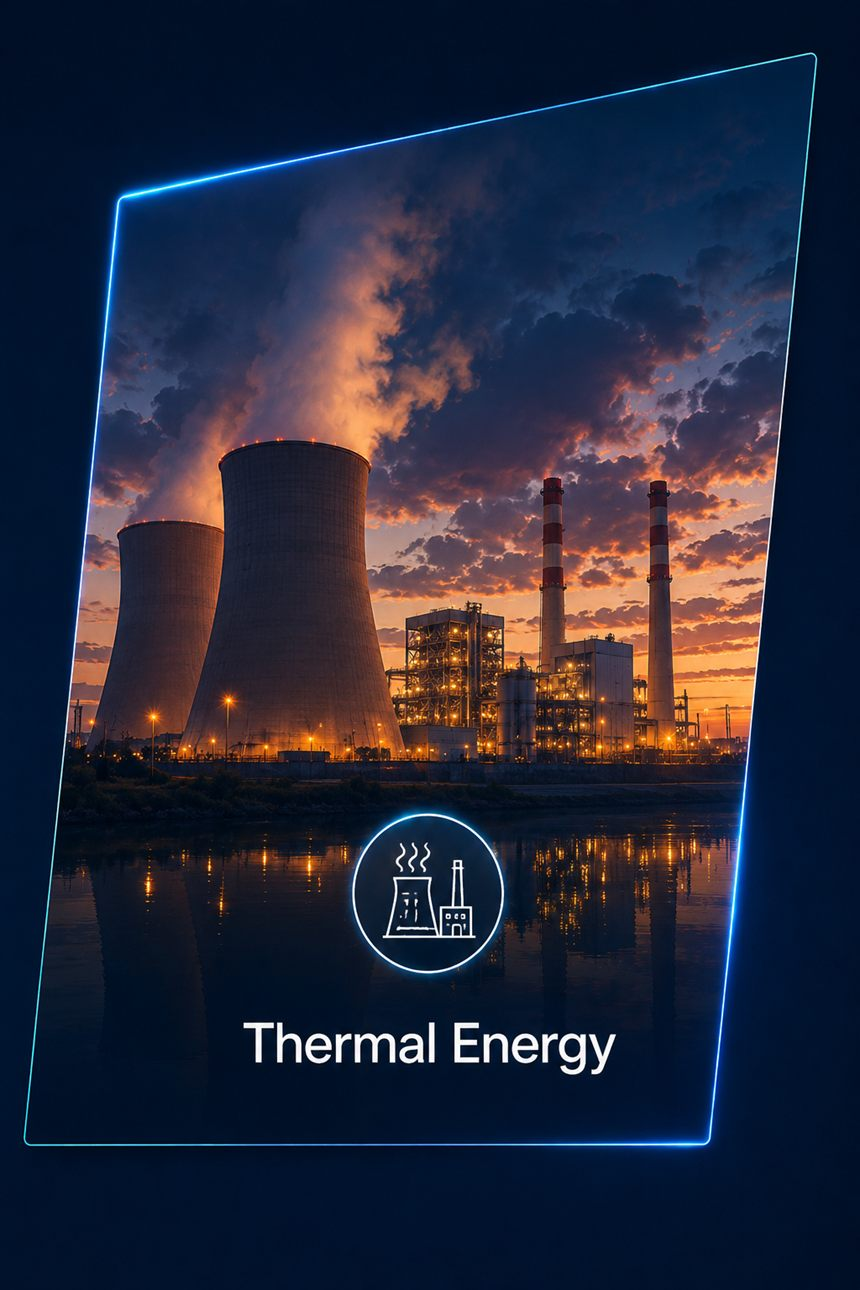
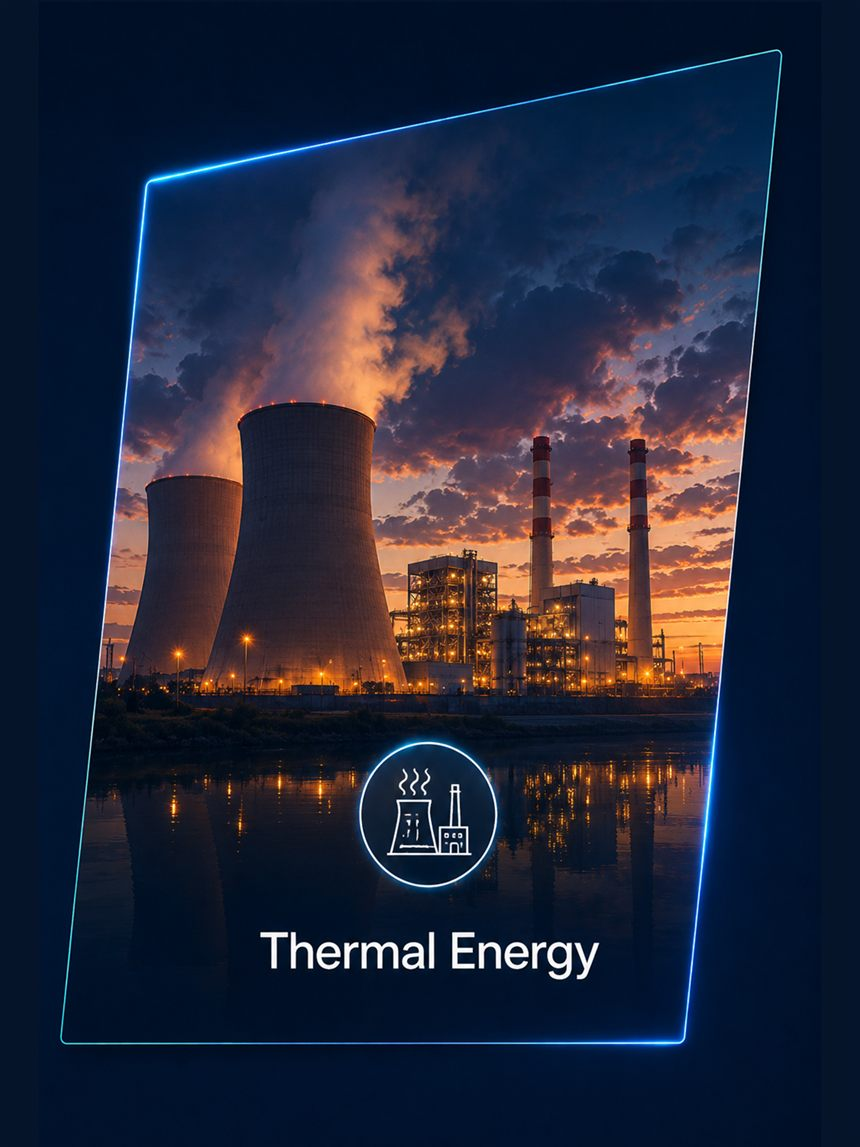
feat(home): use deck wording verbatim and fix layout defects
Align the intro page with the ProSIM company deck and correct three
layout issues found while reviewing it.

Content, taken verbatim from the deck rather than paraphrased:
- About now leads with "Engineering your Designs" and carries both
  approved paragraphs word for word.
- Industry names match the labels baked into their own card artwork:
  "Nuclear Power" -> "Nuclear Energy", "Petrochemical Engineering" ->
  "Petrochemicals & Process Industries". Case-study `industry` values
  track the rename so the project filter pills keep matching.
- Section labels use the deck's own wording ("Industry We Serve",
  "Clients"), and the projects stat keeps the deck's "Project Delivered".

Layout:
- About's side panel no longer stretches to match the left column. It
  carried `h-full` plus `justify-between`, so it grew to the row height
  and pushed its footer to the bottom, leaving ~720px of dead space once
  the banner was added. The column keeps the row height (which is what
  gives `sticky` room to travel) while the card sizes to its content and
  pins below the header.
- Switch `overflow-x: hidden` to `clip` on <body> and <main>. Both stop
  sideways scroll, but `hidden` makes the element a scroll container,
  which silently disables `position: sticky` for everything inside.
  Verified no horizontal scroll at 390/768/1440px.
- Normalise the thermal industry card. It came out of the deck at
  1024x1536 while the other five are 1086x1448, so `object-cover`
[…]

Changed region(s): [[0.0302, 0.0305, 0.9674, 0.9154], [0.6047, 0.061, 0.6953, 0.0915], [0.7558, 0.061, 0.786, 0.0915]]

diff --git a/src/data/prosimData.ts b/src/data/prosimData.ts
@@ -13,7 +13,7 @@ export const HERO_DATA = {
   eyebrow: "ProSIM / Detailed Engineering & Analysis",
   headline: "Engineering through",
   headlineAccent: "Delivery Excellence",
-  subheadline: "Delivering innovative engineering solutions across energy sectors, helping customers solve their most pressing challenges through delivery excellence.",
+  subheadline: "Delivering innovative engineering solutions across energy sectors, helping customers solve their most pressing challenges through delivery excellence",
   videoCta: "Unveiling ProSIM",
   primaryCta: "Explore Industries",
   secondaryCta: "Request Engineering Consultation",
@@ -31,15 +31,14 @@ export const HERO_DATA = {
 
 export const ABOUT_DATA = {
   companyName: "ProSIM",
-  tagline: "Your Detailed Engineering Partner for Complex Projects",
-  /**
-   * Paraphrased from the company deck. The scope line is deliberate: ProSIM
-   * picks a project up at the detailed engineering stage - front-end and basic
-   * engineering are outside the remit - so the copy never implies FEED or
-   * concept-phase services.
+  /*
+   * Verbatim from the company deck (slide 2). These three strings are the
+   * client's own approved wording and are intentionally NOT paraphrased -
+   * keep them character-for-character unless the deck itself changes.
    */
-  statement: "ProSIM is a multidisciplinary engineering and design company delivering dependable solutions across the Energy, Process, Utilities and Infrastructure sectors. We work alongside EPCs, OEMs and engineering service providers, taking projects forward from detailed engineering through to rigorous analysis and validation.",
-  statementSecondary: "Our commitment is to turn approved designs into reliable, buildable engineering. Every deliverable is backed by deep technical expertise, rigorous analysis and a clear grasp of how the asset behaves in the real world.",
+  tagline: "Engineering your Designs",
+  statement: "ProSIM is a multidisciplinary engineering and design company delivering reliable solutions across the Energy, Process, Utilities, and Infrastructure sectors. We work with EPC's, OEM's and engineering service companies to support projects from engineering design through detailed engineering and analysis.",
+  statementSecondary: "ProSIM is committed to transform designs into reliable and practical engineering solutions. Every design is reinforced by deep technical expertise, rigorous analysis and clear understanding of real-world application",
   scopeNote: "ProSIM specialises exclusively in detailed engineering and analysis. We do not undertake front-end or basic engineering scopes.",
   pillars: [
     {
@@ -122,7 +121,8 @@ export const STATS_DATA: StatItem[] = [
     id: "stat-projects",
     value: 3600,
     suffix: "+",
-    label: "Projects Delivered",
+    // Deck wording, kept verbatim (it reads "Project Delivered", singular).
+    label: "Project Delivered",
     highlight: "Across 18+ Countries",
     description: "Successfully executed mission-critical engineering and simulation projects with 100% on-time delivery track record."
   },
@@ -155,7 +155,7 @@ export const STATS_DATA: StatItem[] = [
 export const INDUSTRIES_DATA: IndustryItem[] = [
   {
     id: "nuclear-power",
-    title: "Nuclear Power",
+    title: "Nuclear Energy",
     category: "Clean & Base-Load Energy",
     shortDesc: "Reactor pressure vessel integrity, seismic qualification, containment analysis, and RCC-M code design.",
     fullDesc: "ProSIM provides mission-critical structural, thermal-hydraulic, and seismic engineering for nuclear island and balance-of-plant systems. We specialize in ASME Section III (Class 1, 2, 3) and RCC-M code compliance, reactor internal dynamics, core shroud stress analysis, severe accident mitigation simulations, and life extension studies.",
@@ -212,7 +212,7 @@ export const INDUSTRIES_DATA: IndustryItem[] = [
   },
   {
     id: "petrochemical-engineering",
-    title: "Petrochemical Engineering",
+    title: "Petrochemicals & Process Industries",
     category: "Refining & Chemical Processing",
     shortDesc: "Reactors, distillation columns, heat exchangers, high-temperature piping stress, and API 579 FFS assessments.",
     fullDesc: "Specialized design-by-analysis and fitness-for-service evaluation for refinery units, hydrocrackers, FCCUs, and petrochemical complexes. We perform advanced thermo-mechanical stress, nozzle flexibility, and localized corrosion flaw assessment.",
@@ -504,7 +504,7 @@ export const PROJECTS_DATA: ProjectCaseStudy[] = [
   {
     id: "proj-1",
     title: "Seismic & Thermal Fatigue Qualification of 700 MWe Nuclear Primary Heat Transport Loop",
-    industry: "Nuclear Power",
+    industry: "Nuclear Energy",
     clientType: "Nuclear Energy Corporation",
     challenge: "Ensure structural integrity under combined Safe Shutdown Earthquake (SSE), thermal stratification, and cyclic thermal transients in accordance with RCC-M Level D requirements.",
     solution: "Developed non-linear FEA response-spectrum and transient thermal models incorporating multi-axial creep-fatigue and fluid-structure interaction (FSI).",
@@ -537,7 +537,7 @@ export const PROJECTS_DATA: ProjectCaseStudy[] = [
   {
     id: "proj-4",
     title: "API 579 Level 3 Fitness-For-Service of Hydrocracker High-Pressure Shell with Localized Corrosion",
-    industry: "Petrochemical Engineering",
+    industry: "Petrochemicals & Process Industries",
     clientType: "Refinery Operator",
     challenge: "Plant turnaround ultrasonic inspection detected localized metal thinning below minimum required thickness on high-temperature hydrogen service vessel.",
     solution: "Constructed elastic-plastic finite element model under combined operating pressure, thermal gradient, and hydrogen partial pressure.",

diff --git a/src/components/AboutSection.tsx b/src/components/AboutSection.tsx
@@ -154,6 +154,22 @@ export const AboutSection: React.FC<AboutSectionProps> = ({ onOpenConsultation }
                 </button>
               </div>
             </div>
+
+            {/*
+             * Artwork from slide 2 of the company deck. The slide's left half
+             * (headline, both paragraphs, four stat tiles) is cropped away
+             * because every word of it is already rendered as real text above
+             * and in the stats band - only the imagery is used here.
+             */}
+            <img
+              src="/images/about-banner.jpg"
+              alt=""
+              loading="lazy"
+              decoding="async"
+              width={1200}
+              height={800}
+              className="aspect-3/2 w-full rounded-3xl border border-slate-200 object-cover shadow-lg shadow-brand-950/10"
+            />
           </Reveal>
 
           <Stagger className="grid grid-cols-1 gap-4 sm:grid-cols-2" stagger={0.09}>
@@ -179,8 +195,20 @@ export const AboutSection: React.FC<AboutSectionProps> = ({ onOpenConsultation }
         </div>
 
         {/* Right: tabbed detail panel */}
-        <Reveal className="h-full lg:col-span-5" direction="left" delay={0.15}>
-          <div className="relative flex h-full flex-col justify-between overflow-hidden rounded-3xl border border-slate-200 bg-white/85 p-6 shadow-xl backdrop-blur-2xl sm:p-7">
+        {/*
+         * The column keeps the row's full height; the card inside does not.
+         *
+         * The card used to carry `h-full` and `justify-between` itself, so it
+         * stretched to match the left column and pushed its footer to the very
+         * bottom, leaving a tall empty gap once that column grew. Splitting the
+         * two fixes it: the column still spans the row (which is what gives
+         * `sticky` something to travel within — a shrink-wrapped column has
+         * zero scroll range and the card just scrolls away), while the card
+         * itself is only as tall as the active tab needs and pins below the
+         * header as the longer column passes.
+         */}
+        <Reveal className="lg:col-span-5 lg:h-full" direction="left" delay={0.15}>
+          <div className="relative flex flex-col overflow-hidden rounded-3xl border border-slate-200 bg-white/85 p-6 shadow-xl backdrop-blur-2xl sm:p-7 lg:sticky lg:top-24">
             <div
               aria-hidden
               className="absolute inset-x-0 top-0 h-[1.5px] bg-gradient-to-r from-transparent via-teal-500/40 to-transparent"
@@ -219,8 +247,10 @@ export const AboutSection: React.FC<AboutSectionProps> = ({ onOpenConsultation }
                 })}
               </div>
 
-              <AnimatePresence mode="wait">
-                {activeTab === 'overview' && (
+              {/* Floor height keeps the card from resizing as tabs swap. */}
+              <div className="min-h-[24rem]">
+                <AnimatePresence mode="wait">
+                  {activeTab === 'overview' && (
                   <motion.div
                     key="overview"
                     id="about-panel-overview"
@@ -316,7 +346,8 @@ export const AboutSection: React.FC<AboutSectionProps> = ({ onOpenConsultation }
                     </div>
                   </motion.div>
                 )}
-              </AnimatePresence>
+                </AnimatePresence>
+              </div>
             </div>
 
             <div className="mt-4 flex items-center justify-between gap-3 border-t border-slate-100 pt-4 text-xs">

diff --git a/src/components/IndustriesSection.tsx b/src/components/IndustriesSection.tsx
@@ -28,7 +28,7 @@ export const IndustriesSection: React.FC<IndustriesSectionProps> = ({
     <div className="page-shell">
       <div className="mb-14 flex flex-col justify-between gap-8 md:flex-row md:items-end">
         <SectionHeading
-          eyebrow="Industries We Serve"
+          eyebrow="Industry We Serve"
           title="Solving Industry's Most Pressing Challenges"
           subtitle="A trusted detailed engineering partner in the sectors where getting the analysis right is not negotiable — and where the cost of getting it wrong is measured in shutdowns, not revisions."
         />
@@ -85,7 +85,14 @@ export const IndustriesSection: React.FC<IndustriesSectionProps> = ({
                     className="industry-scrim absolute inset-x-0 bottom-0 h-1/4 opacity-0 transition-opacity duration-300 group-hover/ind:opacity-100"
                   />
 
-                  <div className="absolute inset-x-0 bottom-0 flex translate-y-2 flex-col items-center gap-1.5 p-5 text-center opacity-0 transition-all duration-300 group-hover/ind:translate-y-0 group-hover/ind:opacity-100">
+                  {/*
+                   * Sits in the dark margin below the label baked into the
+                   * card art. The two-line labels ("Industrial & Heavy
+                   * Engineering") reach ~87.5% of the card height, so the
+                   * padding here is kept tight enough to clear even those
+                   * without crowding them.
+                   */}
+                  <div className="absolute inset-x-0 bottom-0 flex translate-y-2 flex-col items-center gap-1 px-4 pb-4 text-center opacity-0 transition-all duration-300 group-hover/ind:translate-y-0 group-hover/ind:opacity-100">
                     <p className="text-[11px] font-semibold uppercase tracking-[0.14em] text-brand-200">
                       {industry.category}
                     </p>

diff --git a/src/App.tsx b/src/App.tsx
@@ -47,7 +47,12 @@ export default function App() {
     >
       <Navbar onOpenConsultation={openConsultation} />
 
-      <main className="w-full flex-1 overflow-x-hidden">
+      {/*
+       * `overflow-x-clip`, not `hidden`. Both stop sideways scroll, but
+       * `hidden` makes this element a scroll container, which silently breaks
+       * `position: sticky` for everything inside it. `clip` does not.
+       */}
+      <main className="w-full flex-1 overflow-x-clip">
         <Hero onOpenConsultation={openConsultation} />
         <ClientsMarquee />
         <StatsSection />

diff --git a/src/index.css b/src/index.css
@@ -111,7 +111,10 @@
     color: #0a2a52;
     font-family: system-ui, -apple-system, BlinkMacSystemFont, 'Segoe UI', Roboto, Oxygen,
       Ubuntu, Cantarell, 'Open Sans', 'Helvetica Neue', sans-serif;
-    overflow-x: hidden;
+    /* `clip` rather than `hidden`: it prevents sideways scroll without
+       turning <body> into a scroll container, which would disable
+       `position: sticky` throughout the page. */
+    overflow-x: clip;
     text-rendering: optimizeLegibility;
     -webkit-font-smoothing: antialiased;
   }

diff --git a/src/components/ClientsMarquee.tsx b/src/components/ClientsMarquee.tsx
@@ -50,7 +50,7 @@ export const ClientsMarquee: React.FC = () => {
     >
       <div className="page-shell mb-10">
         <SectionHeading
-          eyebrow="Our Clients"
+          eyebrow="Clients"
           title={
             <>
               Trusted by <span className="text-accent-500">800+</span> customers worldwide
